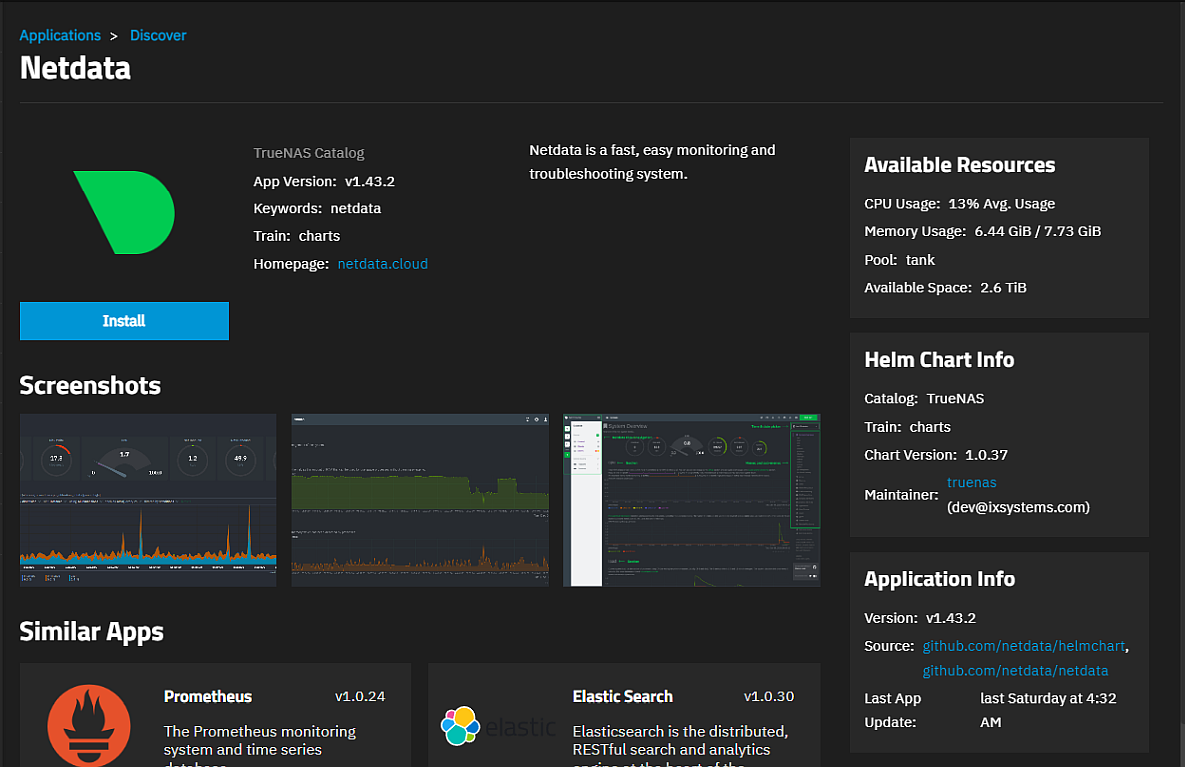
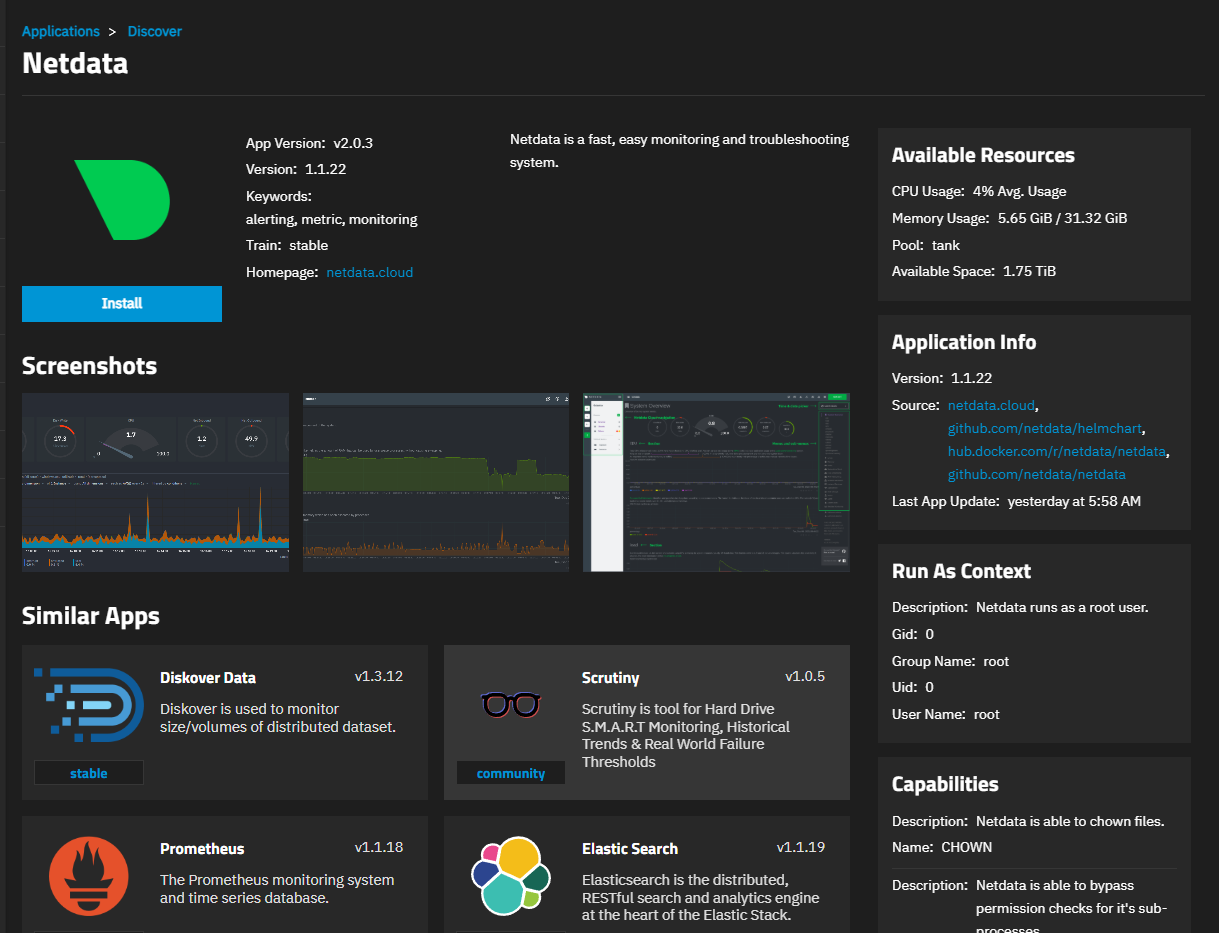
PD-1478 Update images and tutorial content
This commit updates the Netdata app and web portal screenshots, and updates the tutorial content to the current template and instructions.

diff --git a/content/TruenasApps/StableApps/InstallNetdataApp.md b/content/TruenasApps/StableApps/InstallNetdataApp.md
@@ -24,25 +24,29 @@ The portal also provides access to the Netdata Cloud sign-in screen.
 {{< include file="/static/includes/AppsUnversioned.md" >}}
 
 ## Before You Begin
-The TrueNAS Netdata app does not require advance preparation.
+Prepare TrueNAS before installing the app by:
 
-You can allow TrueNAS to automatically create storage volumes for the Netdata app or you can create specific datasets to use for configuration, cache, and library storage and extra storage volumes in the container pod.
-If using specific datasets, create these before beginning the app installation.
+{{< include file="/static/includes/apps/BeforeYouBeginStableApps.md" >}}
 
-The administrator account must have sudo permissions enabled.
-To verify, go to **Credentials > Local User**.
-Click on the administrator user (e.g., admin), then click **Edit**. Scroll down to the sudo permissions.
-Select either **Allow all sudo commands** to permit changes after entering a password (not recommended in this instance) or **Allow all sudo commands with not password** to permit changes without requiring a password.
-If you upgraded from Angelfish or early releases of Bluefin that do not have an admin user account, see [Creating an Admin User Account]({{< relref "ManageLocalUsersSCALE.md" >}}) for instructions on correctly creating an administrator account with the required permissions.
+{{< include file="/static/includes/apps/BeforeYouBeginAddAppDatasets.md" >}}
 
-You can create a Netdata account before or after installing and deploying the Netdata app.
+  <div style="margin-left: 33px">Netdata uses three datasets: <b>config</b>, <b>lib</b>, and <b>cache</b>.
+
+  {{< include file="/static/includes/apps/BeforeYouBeginAddAppDatasetsProcedure.md" >}}
+
+  </div>
+* (Optional) Create a Netdata account.
+  The app install wizard allows you to create a new Netdata account when configuring the app in TrueNAS, or to configure it to use a preexisting account.
 
 ## Installing Netdata on TrueNAS
-To install the **Netdata** application, go to **Apps**, click on **Discover Apps**, then either scroll down to the **Netdata** app widget or begin typing Netdata in the search field to filter the list to find the Netdata app widget.
+{{< hint info >}}
+This basic procedure covers the required Netdata app settings.
+For optional settings, see [Understanding App Installation Wizard Settings](#understanding-app-installation-wizard-settings).
+{{< /hint >}}
 
-{{< trueimage src="/images/SCALE/Apps/NetdataWidget.png" alt="Netdata App Widget" id="Netdata App Widget" >}}
+{{< include file="static/includes/apps/MultipleAppInstancesAndNaming.md" >}}
 
-Click on the widget to open the **Netdata** application details screen.
+{{< include file="/static/includes/apps/LocateAndOpenInstallWizard.md" >}}
 
 {{< trueimage src="/images/SCALE/Apps/NetdataAppDetailsScreen.png" alt="Netdata App Details Screen" id="Netdata App Details Screen" >}}
 
@@ -50,93 +54,108 @@ Click **Install** to open the **Install Netdata** screen.
 
 {{< trueimage src="/images/SCALE/Apps/InstallNetdataScreen.png" alt="Install Netdata Screen" id="Install Netdata Screen" >}}
 
-Application configuration settings presented in several sections, are explained in [Understanding Netdata Settings](#understanding-netdata-wizard-settings) below.
-To find specific fields click in the **Search Input Fields** search field, scroll down to a particular section or click on the section heading on the navigation area in the upper-right corner.
+{{< include file="/static/includes/apps/InstallWizardAppNameAndVersion.md" >}}
 
-Accept the default values in **Application Name** and **Version**.
+The TrueNAS app is configured with all the required environment variables, but if you want to further customize the container, click **Add** to the right of **Additional Environment Variables** for each to enter the variable(s) and values(s).
+See [Netdata Configuration](#netdata-configuration-settings) below for more information.
 
-Accept the default settings in **Netdata Configuration** and the default port in **Node Port to use for Netdata UI**.
+Accept the default values in **Network Configurations**. 
 The TrueNAS Netdata app uses the default port **20489** to communicate with Netdata and show the Netdata local dashboard.
-
-Make no changes in the **Storage** section to allow TrueNAS to create the storage volumes for the app, or to use datasets created for Netdata configuration storage, select **Enable Host Path for Netdata** to show the **Host Path for Netdata Configuration** settings.
-
-{{< trueimage src="/images/SCALE/Apps/InstallNetdataStorageEnableHostPath.png" alt="Install Netdata Storage Enable Host Path" id="Install Netdata Storage Enable Host Path" >}}
-
-Enter or browse to select the dataset created for Netdata configuration storage to populate the mount path.
-If using datasets created for cache and library storage, enable these options, then enter or browse to the datasets for each.
-
 Accept the default settings in **Advanced DNS Settings**.
+See [Network Configuration](#) below for more information.
 
-Accept the default values in **Resources Limits** or select **Enable Pod Resource limits** to show resource configuration options for CPU and memory and enter new values to suit your use case.
+Add your **Storage Configuration** settings.
+Set **Type** for **Netdata Config Storage** to **Host Path (Path that already exists on the system)**.
+Select **Enable ACL**, and then enter or browse to and select the **config** dataset to populate the **Host Path** field.
 
-Click **Install**.
+{{< trueimage src="/images/SCALE/Apps/InstallNetdataStorageConfigACLandACE.png" alt="Add Netdata Config Storage ACL and ACE Settings" id="Add Netdata Config Storage ACL and ACE Settings" >}}
+
+Click **Add** to the right of **ACL Entries** to show the block of permissions settings.
+Change **ID Type** to user, enter **0** in **ID**, and set **Access** to full control.
+
+Next, select **Force Flag**.
+
+Repeat the above for the **lib** and **cache** storage volumes.
+
+Accept the defaults in **Resources Configuration**.
+
+Click **Install**. A progress dialog displays before switching to the **Installed** applications screen.
 The system opens the **Installed Applications** screen with the Netdata app in the **Deploying** state.
 When the installation completes it changes to **Running**.
 
 {{< trueimage src="/images/SCALE/Apps/NetdataInstalled.png" alt="Netdata Installed" id="Netdata Installed" >}}
 
+{{< trueimage src="/images/SCALE/Apps/NetdataSignInScreen.png" alt="Nextcloud Sign In Screen" id="Nextcloud Sign In Screen" >}}
+
 Click **Web Portal** on the **Application Info** widget to open the Netdata web interface showing the local dashboard.
 
 {{< trueimage src="/images/SCALE/Apps/NetdataWebPortalLocalDashboard.png" alt="Netdata Web Portal Local Dashboard" id="Netdata Web Portal Local Dashboard" >}}
 
-## Understanding Netdata Wizard Settings
-The following sections provide more detail explanations of the settings found in each section of the **Install Netdata** screen.
+Refer to Netdata user guides and documentation for more information on configuring Netdata dashboards.
+
+## Understanding App Installation Wizard Settings
+
+The following section provides more detailed explanations of the settings in each section of the **Install Netdata** wizard.
 
 ### Application Name Settings
 
 {{< include file="/static/includes/InstallWizardAppNameAndVersion.md" >}}
 
 ### Netdata Configuration Settings
-You can accept the defaults in the **Netdata Configuration** settings or enter the settings you want to use.
-
-Click **Add** to the right of **Netdata image environment** to display the environment variable **Name** and **Value** fields.
+Accept defaults in the **Netdata Configuration** settings, or to customize the container deployment click **Add** to the right of **Additional Environment Variables** to show the **Name** and **Value** fields used to enter variables.
 Netdata does not require using environment variables to deploy the application but you can enter any you want to use to customize your container.
 
 {{< trueimage src="/images/SCALE/Apps/InstallNetdataConfigAddEnvironmentVariable.png" alt="Netdata Configuration Add Environment Variable" id="Netdata Configuration Add Environment Variable" >}}
 
+Refer to Netdata user guides and documentation for information on configuring and customizing your app.
+Guides include [GitHub Install Netdata with Docker](https://github.com/netdata/netdata/blob/master/packaging/docker/README.md), and [Netdaa Deployment Guides](https://learn.netdata.cloud/docs/deployment-guides/).
+Netdata provides assistance through their community forums and [Support site](https://www.netdata.cloud/support/).
+
+## Network Configuration Settings
 The TrueNAS Netdata app uses port **20489** to communicate with Netdata and open the web portal.
 Netdata documentation states it uses **19999** as the default port, but it recommends restricting access to this for security reasons.
-Refer to the TrueNAS [default port list](https://www.truenas.com/docs/references/defaultports/) for a list of assigned port numbers.
-To change the port numbers, enter a number within the range 9000-65535.
 
-### Netdata Storage Settings
-TrueNAS defaults to automatically creating storage volumes for Netdata without enabling the host path options.
+{{< include file="/static/includes/apps/InstallWizardDefaultPorts.md" >}}
+{{< include file="static/includes/apps/InstallWizardHostNetworkSettings.md" >}}
+{{< include file="/static/includes/apps/InstallWizardAdvancedDNSSettings.md" >}}
 
-To create and use datasets for the Netdata configuration, cache, and library storage or extra storage volumes inside the container pod, first create these datasets.
-Go to **Datasets** and create the datasets before you begin the app installation process.
-See [Add Datasets]({{< relref "DatasetsScale.md" >}}) for more information.
-Select **Enable Host Path for Netdata** to show the volume mount path field to add the configuration storage dataset.
+### Storage Configuration Settings
+TrueNAS provides two options for storage volumes: ixVolumes and host paths.
 
-{{< trueimage src="/images/SCALE/Apps/InstallNetdataStorageEnableHostPath.png" alt="Install Netdata Storage Enable Host Path" id="Install Netdata Storage Enable Host Path" >}}
+Netdata needs three datasets:
+* **config**
+* **lib**
+* **cache**
 
-Enter or browse to select the dataset and populate the mount path field.
-To use datasets created for cache and library storage volumes, first enable each option and then enter or browse to select the datasets tp populate the mount path fields for each.
-
-If you want to add storage volumes inside the container pod for other storage, click **Add** to the right of **Extra Host Path Volumes** for each storage volume (dataset) you want to add.
-
-{{< trueimage src="/images/SCALE/Apps/InstallNetdataStorageExtraHostPath.png" alt="Install Netdata Storage Add Extra Host Path" id="Install Netdata Storage Add Extra Host Path" >}}
+Create datasets before beginning the app installation process. Set the **Dataset Preset** to **Apps** before saving the datasets. 
+If you group the required datasets under a parent dataset, for example, a dataset named *netdata*, set the **Dataset Preset** to **Apps** to avoid permissions error messages and issues that can block fully deploying the app. See [Before You Begin](#before-you-begin) for more information on adding these datasets.
 
 You can add extra storage volumes at the time of installation or edit the application after it deploys. Stop the app before editing settings.
+{{< include file="/static/includes/apps/InstallAppStorageConfig2.md" >}}
 
-### Advanced DNS Settings
-The default **DNS Configuration** is sufficient for a basic installation.
-To specify additional DNS options, click **Add** to the right of **DNS Options** to add the DNS **Option Name** and **Option Value** fields.
+#### Setting ACL Permissions
+You can configure ACL permissions for the required dataset in the **Install Netdata** wizard, or from the **Datasets** screen any time after adding the datasets.
 
-{{< trueimage src="/images/SCALE/Apps/InstallNetdataAdvancedDNSOptions.png" alt="Install Netdata Advanced DNS Options" id="Install Netdata Advanced DNS Options" >}}
+{{< include file="/static/includes/apps/InstallWizardStorageACLConfig.md" >}}
+
+{{< expand "Adding ACL Permissions from the Datasets Screen" "v">}}
+First select the dataset row, and scroll down to the **Permissions** widget, and then click **Edit** to open the **Edit ACL** screen.
+Change the **@owner** and **@group** values from **root** to the administrative user for your TrueNAS system, and click apply for each.
+Next, add an ACL entry for the run-as user.
+For Netdata, the run-as users is **0** for **root**. Add a user entry for this user.
+Save the ACL before leaving the screen.
+{{< /expand >}}
+
+#### Mounting an SMB Share
+TrueNAS **Additional Storage** options include the ability to mount an SMB share inside the container pod.
+
+{{< include file="/static/includes/apps/InstallWizardStorageSMBOption.md" >}}
 
 ### Resource Limits Settings
-Accept the default values in **Resources Limits** or select **Enable Pod Resource limits** to show CPU and memory resource configuration options.
-
-By default, the application is limited to use no more than four CPU cores and eight gigabytes available memory.
-The application might use considerably less system resources.
 
 {{< trueimage src="/images/SCALE/Apps/InstallNetdataResourceLimitsEnablePod.png" alt="Install Netdata Resource Limits" id="Install Netdata Resource Limits" >}}
 
-To customize the CPU and memory allocated to the container (pod) Netdata uses, enter new CPU values as a plain integer value followed by the suffix m (milli).
-Default is 4000m.
-
-Accept the default value 8Gi allocated memory or enter a new limit in bytes.
-Enter a plain integer followed by the measurement suffix, for example 129M or 123Mi.
+{{< include file="/static/includes/apps/InstallWizardResourceConfig.md" >}}
 
 ## Using the Netdata Web Portal
 After deploying the TrueNAS Netdata app click on **Web Portal** to open the Netdata agent local dashboard.

diff --git a/static/includes/apps/BeforeYouBeginAddAppDatasetsProcedure.md b/static/includes/apps/BeforeYouBeginAddAppDatasetsProcedure.md
@@ -1,0 +1,30 @@
+&NewLine;
+
+* Create datasets for the storage volumes for the app.
+
+  Go to **Datasets** and select the pool or dataset where you want to place the dataset(s) for the app.
+  For example, */tank/apps/appName*.
+
+  {{< expand "Creating Datasets for Apps" "v" >}}
+  When creating datasets for apps follow these steps:
+  1. Go to **Datasets**, select the location for the parent dataset if organizing required datasets under a parent dataset, then click **Add Dataset**.
+     For example, select the root dataset of the pool, and click **Add Dataset** to create a new parent called *apps* or *appName**, where *appName* is the name of the app.
+
+     Do not create the app datasets under the ix-applications or ix-apps dataset.
+
+  2. Enter the name of the dataset, then select **Apps** as the **Dataset Preset**.
+     Creating the parent dataset with the preset set to **Generic** causes permissions issues when you try to create the datasets the app requires with the preset set to **Apps**.
+
+  3. Click **Save**.
+     Return to dataset creation when prompted rather than configuring ACL permissions.
+
+     You can set up permissions (ACLs) for a dataset after adding it by selecting **Go to ACL Manager** to open the <b>Edit ACL</b> screen, or wait and use the app Install wizard ACL settings to add  permissions. 
+     You can also edit permissions after installing the app using either method.
+  
+  4. Select the parent dataset and then click **Create Dataset** to open the **Add Dataset** screen again.
+
+  5. Enter the name of a dataset required for the app, such as *config*, select **Apps** as the **Dataset Preset**, and then click **Save**.
+     When prompted, return to creating datasets rather than setting up ACL permissions.
+
+  6. Repeat for remaining datasets required for the app.   
+  {{< /expand >}}
